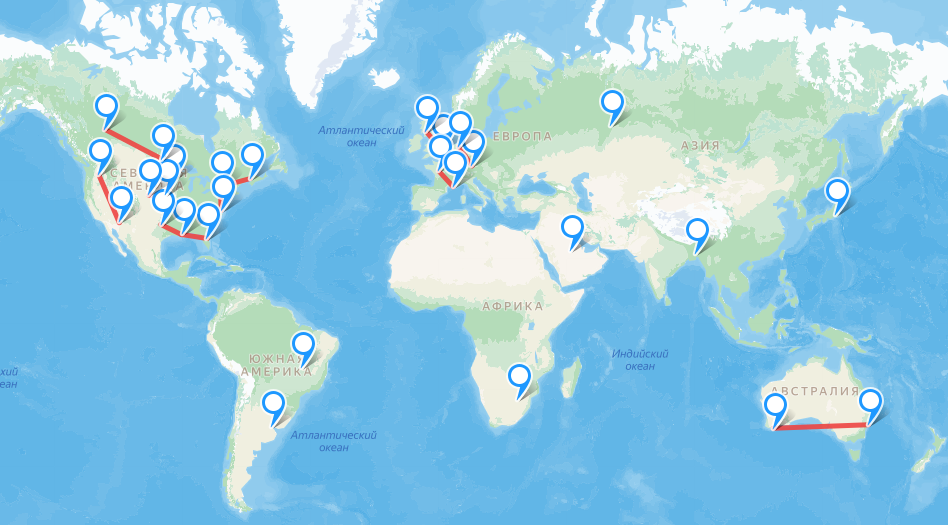
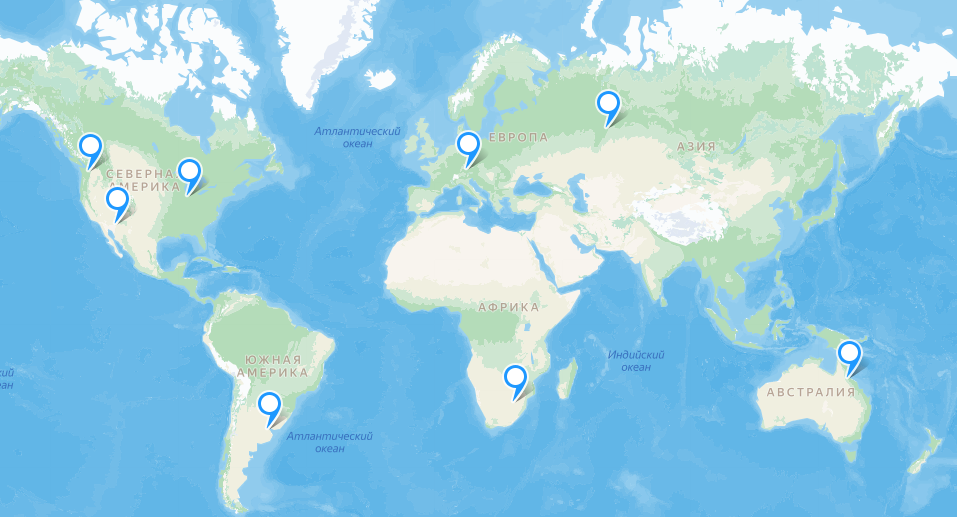
очередные исправления

diff --git a/README.md b/README.md
@@ -61,7 +61,8 @@ MVP функционал:
 2. Дневная аудитория (DAU) - 62.24 миллиона [1],
 3. Для пользователей не предусмотрено выделение личного пространства на диске.
 4. Согласно различным источникам [2] [3] [4], зарегистрированные пользователи в среднем проводят 20 минут на площадке, при этом просматривая 2.84 страницы [4]. 
-Одна страница содержит 25 новостей (Пример запроса, выдающего [ленту](https://www.reddit.com/svc/shreddit/feeds/popular-feed)). В среднем лента весит 25 МБ, то есть 1 пост (с медиаконтентом) весит 1 МБ. 
+Предположим, что пользователь в среднем просматривает 30 постов. Примем, что у 60% постов есть фотография в посте, среднее количество занков в посте - 200, фидео встречается в каждом десятом посте, а гиф - каждом двадцатом.
+Тогда средний пост весит 200Б + 0.6*avg_img, + 0.1*avg_video, + 0.05*avf_gif = 200 + 0.6*80К + 0.1*5М + 0.05 * 300К ~ 0.55МБ. 
 За год публикуется порядка 2-ух миллиардов комментариев [3], то есть в среднем пользователь в месяц публиукет 0.09 комментарий, в день это 0.003. 
 Согласно [5] каждый месяц создаётся около 11 млн постов, это в среднем 0,00016 постов на пользователя в день. 
 Согласно [3] в год регистрируется порядка 50 миллиардов голосований, это 1,8 оценок в день на пользователя. 
@@ -91,7 +92,7 @@ MVP функционал:
 
 | Блок | Штук | Вес | Всего |
 | ---- | ---- | --- | ----- |
-| Посты (всего) | 11 000 000 [5] * 12 * (2024-2005) = 2 508 000 000| 1 МБ | ~2 394 ТБ |
+| Посты (всего) | 11 000 000 [5] * 12 * (2024-2005) = 2 508 000 000| 0.55 МБ | ~1 316,7 ТБ |
 | Текст поста | ~ количесвто постов | 0.5 КБ | ~1.2 ТБ |
 | Фото поста | ~0.6 постов | ~85 КБ | ~120 ТБ |
 | GIF поста | ~0.4 постов | 512 КБ | ~478.8 ТБ |
@@ -100,13 +101,13 @@ MVP функционал:
 | Оценки | 50e9 * (2024-2005) = 0.95e12 | 33 Б | ~28.5 ТБ |
 | Аккаунты | 0.5e9[2] | 90КБ | ~45ТБ |
 
-Общий объём хранимый данных ~2 500 ТБ.
+Общий объём хранимый данных ~1 400 ТБ.
 
 2. Сетевой трафик
 
 |  Тип  | Нагрузка для одного пользователя  | Общая (в сутки)   | Сердняя (в секунду)   | Пиковая (в секунду) (x5)  |
 | ---   | --------------------------------  | -------------     | -------------------   | ---                       |
-| Загрузка ленты постов | 2.84 * 25 * 1МБ   | 4 200 ТБ          | 51.2 ГБ               | 256 ГБ                    |
+| Загрузка ленты постов | 30 * 0.55МБ       | 893 ТБ            | 10,9 ГБ               | 54,5 ГБ                   |
 | Создать пост          | 0.00016 * 1МБ     | 0.01 ТБ           | 0.000123 ГБ           | 0.0006 ГБ                 |
 | Подписка на сообщество| 0.003 * 0.1КБ     | 0.00002 ТБ        | 0.3 КБ                | 1.5 КБ                    |
 | Загрузить комментарии | 3 * 60 * 0.25КБ   | ~2.6 ТБ           | 0.03 ГБ               | 0.15 ГБ                   |
@@ -160,7 +161,7 @@ MVP функционал:
 
 Распределение RPS по странам:
 
-| Страна    | RPS (в секунду)       |
+| Страна    | RPS                   |
 |---------  |----------------------:|
 |США        |	3150                |
 |Великобритания  |	500             |
@@ -169,37 +170,27 @@ MVP функционал:
 |Германия   |	500                 |
 |Остальные  |	1970                |
 
-Исходя из данных таблицы, можно сразу распределить около половины датацентров в США.
+Рассчитываем количество датацентров, исходя из того, что на один датацентр полагается порядка 1000-1500 RPS.
 
 США. Расположим датацентры в США с учётом плотности населения:
 
 ![Плотность населения США](img/USA_population.png)
 
-На карте видно, что заселение на восточном побережье и части западного побережья плотнее, чем в центральной части. Расположим датацентры с учётом плотности населения и карты расположения АЭС для обеспечения стабильной энергией [1]. Так же расопложим несколько датацентров в регионах, чтобы распределять нагрузку внутри страны эффективно при помощи BGP Anycast.
+На карте видно, что заселение на восточном побережье и части западного побережья плотнее, чем в центральной части. Расположим датацентры с учётом плотности населения и карты расположения АЭС для обеспечения стабильной энергией [1]. Один датацентр рисполодим на границе с Канадой, что позволит не располагать дополнительный датацентр в другой стране.
 
-Всего получилось 11 датацентров.
+Всего получилось 3 датацентра.
 
 ![alt text](img/USADC.png)
 
-Для остальных стран будем придерживаться того же принципа.
+Для старн европы выделим 1 датацентр, по RPS этого хватит. Расположим датацентр в Мюнхене у АЭС. Территориально это близко к центру Европы и обеспечит низкую задержку для основных стран Европы: Германия, Франция, Великобритания.
 
-Великобритания.
+![alt text](img/EuropeDC.png)
 
-![alt text](img/UK.png)
+Для стран Азии и России, расположим ДЦ в Екатеринбурге.
 
-Германия.
+![](img/RussiaDC.png)
 
-![alt text](img/Germany.png)
-
-Франция.
-
-![alt text](img/France.png)
-
-Канада.
-
-![alt text](img/Canada.png)
-
-Австралия.
+Австралия. Для Австралии принято решение расположить ДЦ на севере страны, поскольку есть необходимость обеспечить более быстрым соединением такие страны, как Япония, но располагать ДЦ на островах плохая идея из-за недостпуности и неразвитой инфраструктуры, а расплогалать в Японии ненадёжно из-за частых замлетрясений, которые могут сопровождаться отключением электричества.
 
 ![alt text](img/Australia.png)
 
@@ -210,7 +201,7 @@ MVP функционал:
 
 3. Схема глобальной балансировки.
 
-Для глобальной балансировки помимо уже используемого BGP Anycast предлагаю использовать Geo-Based DNS для стран с наиболее большой аудиторией и Latency-based DNS для отдаленных стран, чтобы обеспечить отказоустойчивость. 
+Для США и Канады используется связка Geo-based DNS и BGP Anycast, поскольку в стране представлено несколько ДЦ, выбор которого предстоит за скоростью ответа (anycast). Для остальных стран использовуется Latency-based DNS.
 
 Список источников:
 1. [АЭС США](https://www.google.ru/maps/d/viewer?mid=1umnxGzgI_zQ1PKH4nZzWwtou6OQ&hl=ru&ll=41.805326407227724%2C-76.13027336795477&z=7)
